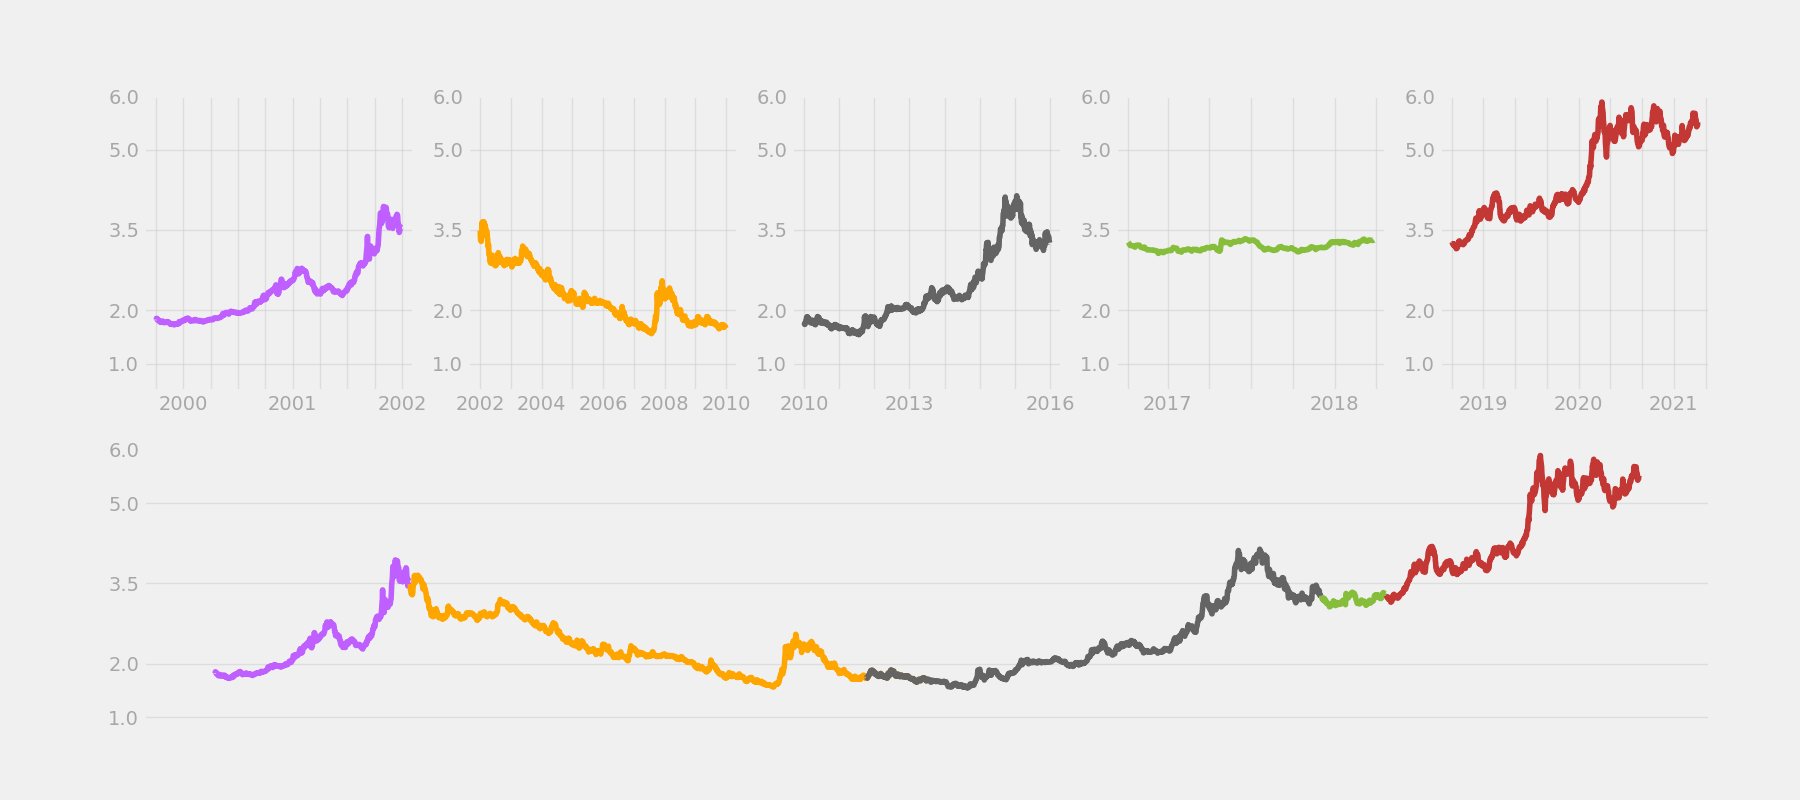
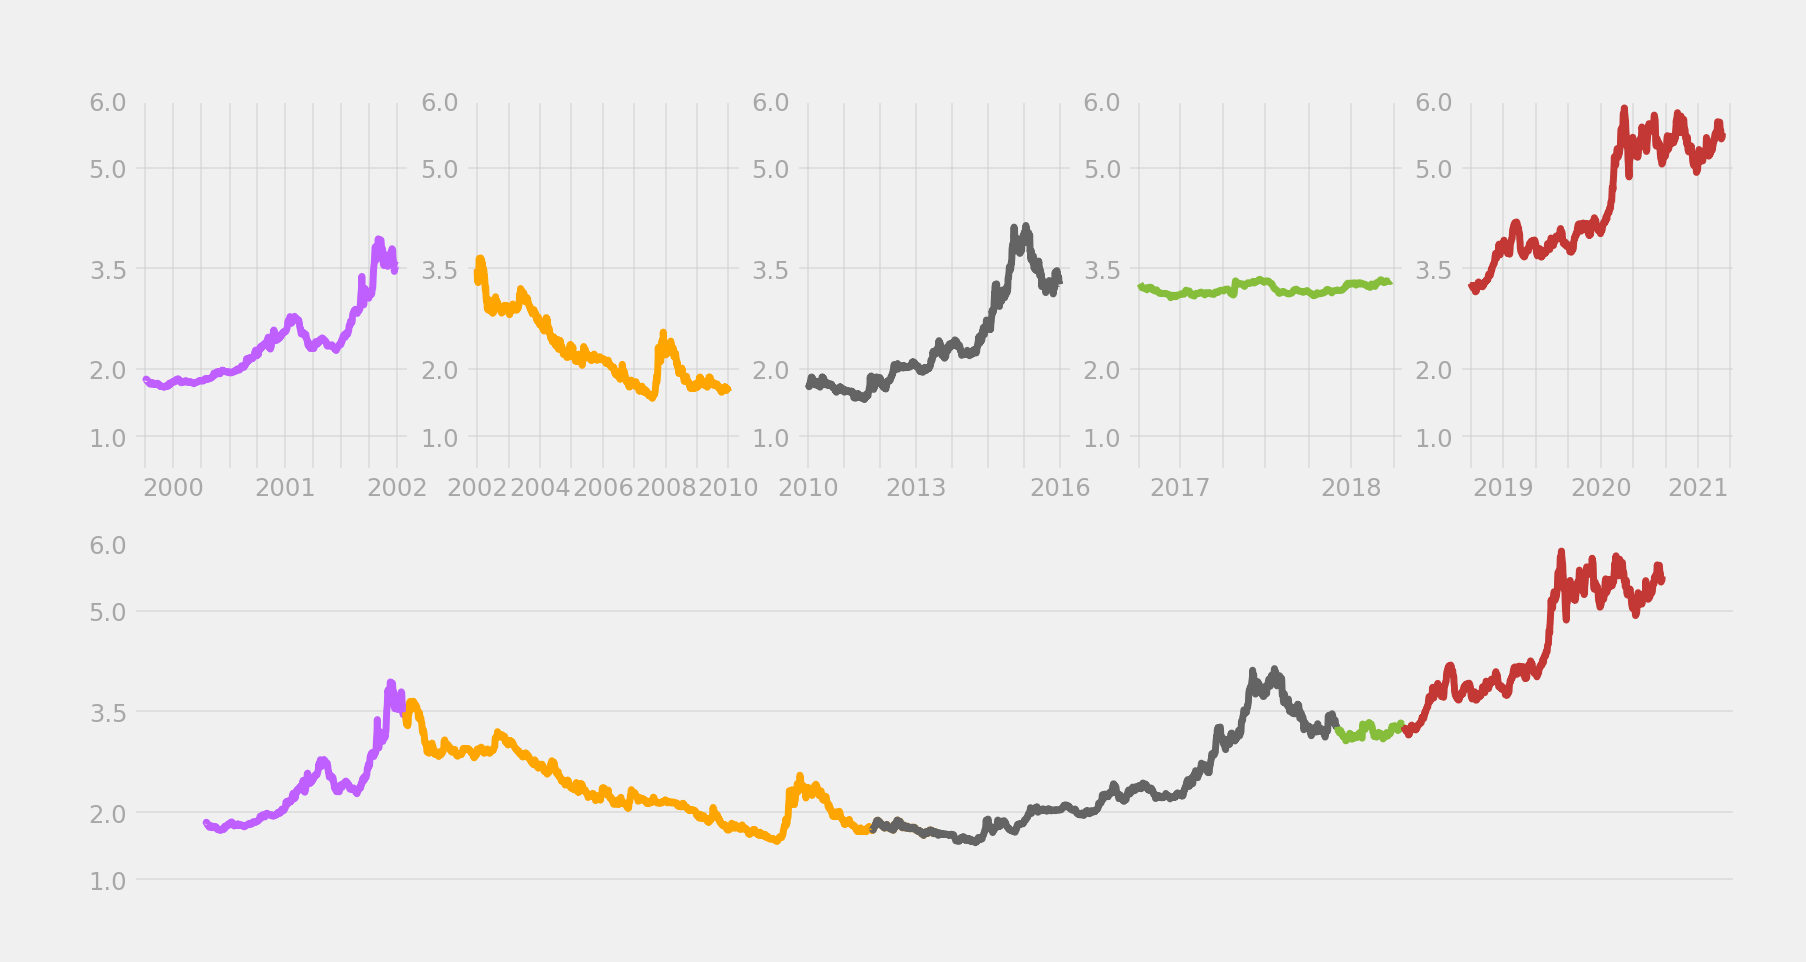
Obtaining: pylint score 10/10

diff --git a/test/test_etl.py b/test/test_etl.py
@@ -1,59 +1,93 @@
-import pytest
+"""
+This module implements all the tests
+"""
 import pandas as pd
 import numpy as np
 from scripts.etl import ExchangeETL
 from scripts.utils import set_logger, parse_config
 
-def validate_columns(new_columns: dict,
-                      columns: pd.Index, 
-                      valid : bool) -> bool:
 
-    if ((set(new_columns.values()).issubset(set(columns)) and valid)):
-        return True
-    else:
-        return False
+def validate_columns(new_columns: dict,
+                     columns: pd.Index,
+                     valid: bool) -> bool:
+    """
+    This function is responsible to validate the columns of a DataFrame
+    Args:
+        new_columns (dict): specify the columns that were changed
+        columns (pd.Index): indicate the new columns of the DataFrame
+        valid (bool): indicate if the function responsible to change the columns worked.
+    Return:
+        bool : indicate if the test pass or fail
+    """
+
+    return set(new_columns.values()).issubset(set(columns)) and valid
+
 
 def validate_type(dtype: np.dtype,
                   valid: bool,
                   cols_type: np.dtype) -> bool:
-    if((cols_type == dtype) and valid):
-        return True
-    return False
-    
+    """
+    This function is responsible to validate the columns type of a DataFrame
+    Args:
+        dtype (np.dtype): specify the dtype of the column
+        valid (bool): indicate if the function responsible to change the columns worked.
+        cols_type (np.dtype): indicate the new column dtype of the DataFrame
+    Return:
+        bool : indicate if the test pass or fail
+    """
+
+    return (cols_type == dtype) and valid
+
 
 def test_set_logger():
+    """
+    This function performs the test of the set_logger function
+    """
     log_path = "./log/etl.log"
-    logger = set_logger(log_path)
+    logger = set_logger(__name__,log_path)
     assert logger is not None
 
+
 def test_parse_config():
+    """
+    This function performs the test of the parse_config function
+    """
     config_path = "./config.yml"
     config = parse_config(config_path)
     assert isinstance(config, dict)
 
+
 def test_load_dataframe():
+    """
+    This function performs the test of the load_dataframe function
+    """
     data_path = './test/data_tests/euro-daily-hist_1999_2020.csv'
-    ETL = ExchangeETL()
-    assert ETL.load_dataframe(0, data_path)
+    etl = ExchangeETL()
+    assert etl.load_dataframe(0, data_path)
+
 
 def test_rename_columns():
+    """
+    This function performs the test of the rename_columns function
+    """
     data_path = './test/data_tests/euro-daily-hist_1999_2020.csv'
-    ETL = ExchangeETL()
-    ETL.load_dataframe(0, data_path)
-    old_columns = ETL.dataframes[0].columns
-    new_column = {old_columns[0] : "test_column"}
-    valid = ETL.rename_columns(0, new_column)
-    assert validate_columns(new_column, ETL.dataframes[0].columns, valid)
+    etl = ExchangeETL()
+    etl.load_dataframe(0, data_path)
+    old_columns = etl.dataframes[0].columns
+    new_column = {old_columns[0]: "test_column"}
+    valid = etl.rename_columns(0, new_column)
+    assert validate_columns(new_column, etl.dataframes[0].columns, valid)
+
 
 def test_change_column_type_datetime():
+    """
+    This function performs the test of the change_column_type function
+    """
     data_path = './test/data_tests/euro-daily-hist_1999_2020.csv'
-    ETL = ExchangeETL()
-    ETL.load_dataframe(0, data_path)
-    column = ETL.dataframes[0].columns[0]
-    type = 'datetime'
+    etl = ExchangeETL()
+    etl.load_dataframe(0, data_path)
+    column = etl.dataframes[0].columns[0]
+    mtype = 'datetime'
     dtype = np.datetime64
-    valid = ETL.change_column_type(0, column, type)
-    assert validate_type(dtype, valid, ETL.dataframes[0].dtypes[column].type)
-
-
-
+    valid = etl.change_column_type(0, column, mtype)
+    assert validate_type(dtype, valid, etl.dataframes[0].dtypes[column].type)

diff --git a/scripts/plots.py b/scripts/plots.py
@@ -25,6 +25,8 @@ class GeneratePlots():
     dilma: pd.DataFrame
     temer: pd.DataFrame
     bolsonaro: pd.DataFrame
+    selected: pd.DataFrame
+    covid: pd.DataFrame
 
     def __init__(self, config_path: str = "./config.yml") -> None:
         """
@@ -122,7 +124,7 @@ class GeneratePlots():
         self.logger.info("The plot style was changed to 'fivethirtyeight'.")
 
         # adding the subplots
-        plt.figure(figsize=(18, 8))
+        plt.figure(figsize=(12, 6))
         ax1 = plt.subplot(2, 5, 1)
         ax2 = plt.subplot(2, 5, 2)
         ax3 = plt.subplot(2, 5, 3)
@@ -239,3 +241,81 @@ class GeneratePlots():
         # exporting the first graph
         plt.savefig(self.config['plots']['plot1_path'])
         self.logger.info("The first graph was saved successfully.")
+
+    def plot_graph2_preprocessing(self) -> None:
+        """
+         This function is responsible to preprocess the Dataframe
+         for using it in the plot of BRL Exchange rate in covid 19 period
+        """
+
+        # obtaining the period of the plot
+        filter1 = self.dataframe['Date'].dt.year >= 2016
+        filter2 = self.dataframe['Date'].dt.year < 2021
+        self.selected = self.dataframe.copy()[filter1 & filter2]
+        self.logger.info("The period of plot was selected.")
+
+        # obtaining the period of the covid-19
+        filter3 = self.dataframe['Date'].dt.year >= 2019
+        self.covid = self.dataframe.copy()[filter3 & filter2]
+        self.logger.info("The period of covid-19 was selected.")
+
+    def plot_graph2(self) -> None:
+        """
+         This function is responsible to apply the preprocessing steps in
+         the Dataframe and for create and export the plot of BRL Exchange rate for covid-19
+        """
+
+        # preprocessing data
+        self.plot_graph2_preprocessing()
+
+        # adding the FiveThirtyEight style
+        style.use('fivethirtyeight')
+        self.logger.info("The plot style was changed to 'fivethirtyeight'.")
+
+        # adding the selected period to plot
+        _, axe = plt.subplots(figsize=(12, 6))
+        axe.plot(self.selected['Date'], self.selected['BRL'],
+                 linewidth=1, color='#A6D785')
+        self.logger.info("The selected period was plotted.")
+
+        # adding the covid-19 period to plot
+        axe.plot(self.covid['Date'], self.covid['BRL'],
+                 linewidth=3, color='#e23d28')
+        self.logger.info("The covid-19 period was plotted.")
+
+        # highlihting the peak of the crisis
+        axe.axvspan(xmin=737412.0, xmax=737602.0, ymin=0.03,
+                    alpha=0.3, color='grey')
+        self.logger.info("The highlihting to the peak crisis was added.")
+
+        # adding separete tick labels
+        axe.set_xticklabels([])
+        axe.set_yticklabels([])
+        self.logger.info("The separate tick labels was added.")
+
+        x_coord = 735945.0
+        for year in ['2016', '2017', '2018', '2019', '2020', '2021']:
+            axe.text(x_coord, 2.75, year, alpha=0.5, fontsize=16)
+            x_coord += 365
+        self.logger.info("The x ticks was added.")
+
+        y_coord = 3.05
+        for rate in ['3.0', '4.0', '5.0', '6.0']:
+            axe.text(735800.0, y_coord, rate, alpha=0.5, fontsize=16)
+            y_coord += 1.0
+        self.logger.info("The y ticks was added.")
+
+        # adding a title and a subtitle
+        axe.text(
+            735800.0,
+            6.67,
+            "Real-USD rate peaked at 5.88 during 2020's Covid crises",
+            weight='bold',
+            fontsize=18)
+        axe.text(735800, 6.40, 'Real-USD exchange rates between 2016 and 2021',
+                 size=16)
+        self.logger.info("The title and subtitle were added.")
+
+        # exporting the second graph
+        plt.savefig(self.config['plots']['plot2_path'])
+        self.logger.info("The second graph was saved successfully.")

diff --git a/run.py b/run.py
@@ -1,14 +1,11 @@
 """This modules implements basic cli to perform executation of the ETL
 and visualization pipeline
 """
-
-from scripts.etl import ExchangeETL
-from scripts.plots import GeneratePlots
 from pathlib import Path
 import click
-
+from scripts.etl import ExchangeETL
+from scripts.plots import GeneratePlots
 from scripts.utils import parse_config, set_logger
-
 
 
 @click.command()
@@ -17,35 +14,69 @@ def etl(config_file: str) -> None:
     """
     ETL function that load raw data, apply transformations and export data
     Args:
-        config_file [str]: path to config file
+        config_file (str): path to config file
     Returns:
         None
     """
+    # parsing the configuration file YAML
     config = parse_config(config_file)
-    
+
+    # configuring the logger for this module
     logger = set_logger("run", config['log']['log_run_path'])
 
+    # initializing files for verification
     processed_data = Path(config['etl']['processed_path'])
+    plot1 = Path(config['plots']['plot1_path'])
+    plot2 = Path(config['plots']['plot2_path'])
+
+    # initalizing objects
+    etl_pipeline = ExchangeETL(config_file)
+    plot_pipeline = GeneratePlots(config_file)
 
     logger.info("Verifying if the processed dataframe file is already exists.")
     if processed_data.is_file() is False:
-        logger.info("The processed dataframe file doesn'exist, so the ETL will be performed.")
-        ETL = ExchangeETL(config_file)
-        ETL.processing()
-        logger.info("------ The ETL operations was terminated successfully -------")
+        logger.info(
+            "The processed dataframe file doesn'exist, so the ETL will be performed.")
+        etl_pipeline.processing()
+        logger.info(
+            "------ The ETL operations was terminated successfully -------")
+
+        logger.info("Verifying if the plot1.png file is already exists.")
+        if plot1.is_file() is False:
+            logger.info("Generating the plot1")
+            plot_pipeline.plot_graph1()
+            logger.info("------- The plot1 was saved successfully --------")
+
+        else:
+            logger.info("------- The plot1 already exists --------")
+
+        logger.info("Verifying if the plot2.png file is already exists.")
+        if plot2.is_file() is False:
+            logger.info("Generating the plot2")
+            plot_pipeline.plot_graph2()
+            logger.info("------- The plot2 was saved successfully --------")
+        else:
+            logger.info("------- The plot2 already exists --------")
 
     else:
-        logger.info("The processed dataframe file already exists.")
-        #logger.info("Verifying if the plots images file already exists.")
-        PLOT = GeneratePlots(config_file)
-        logger.info("Generating the plot1")
-        PLOT.plot_graph1()
-        logger.info("------- The plot1 was saved successfully --------")
-        
+        logger.info(
+            "--------The processed dataframe file already exists.-------")
 
-    
+        logger.info("Verifying if the plot1.png file is already exists.")
+        if plot1.is_file() is False:
+            logger.info("Generating the plot1")
+            plot_pipeline.plot_graph1()
+            logger.info("------- The plot1 was saved successfully --------")
+        else:
+            logger.info("------- The plot1 already exists --------")
 
-    
+        logger.info("Verifying if the plot2.png file is already exists.")
+        if plot2.is_file() is False:
+            logger.info("Generating the plot2")
+            plot_pipeline.plot_graph2()
+            logger.info("------- The plot2 was saved successfully --------")
+        else:
+            logger.info("------- The plot2 already exists --------")
 
 
 if __name__ == '__main__':

diff --git a/scripts/etl.py b/scripts/etl.py
@@ -25,9 +25,9 @@ class ExchangeETL():
         This is the constructor of the class ExchangeETL
         and is responsible for initializing the attributes of the object.
         Args:
-        config_file [str]: path to the config yaml file
+            config_file (str): path to the config yaml file
         Returns:
-        None
+            None
         """
 
         # initializing the config_path attribute
